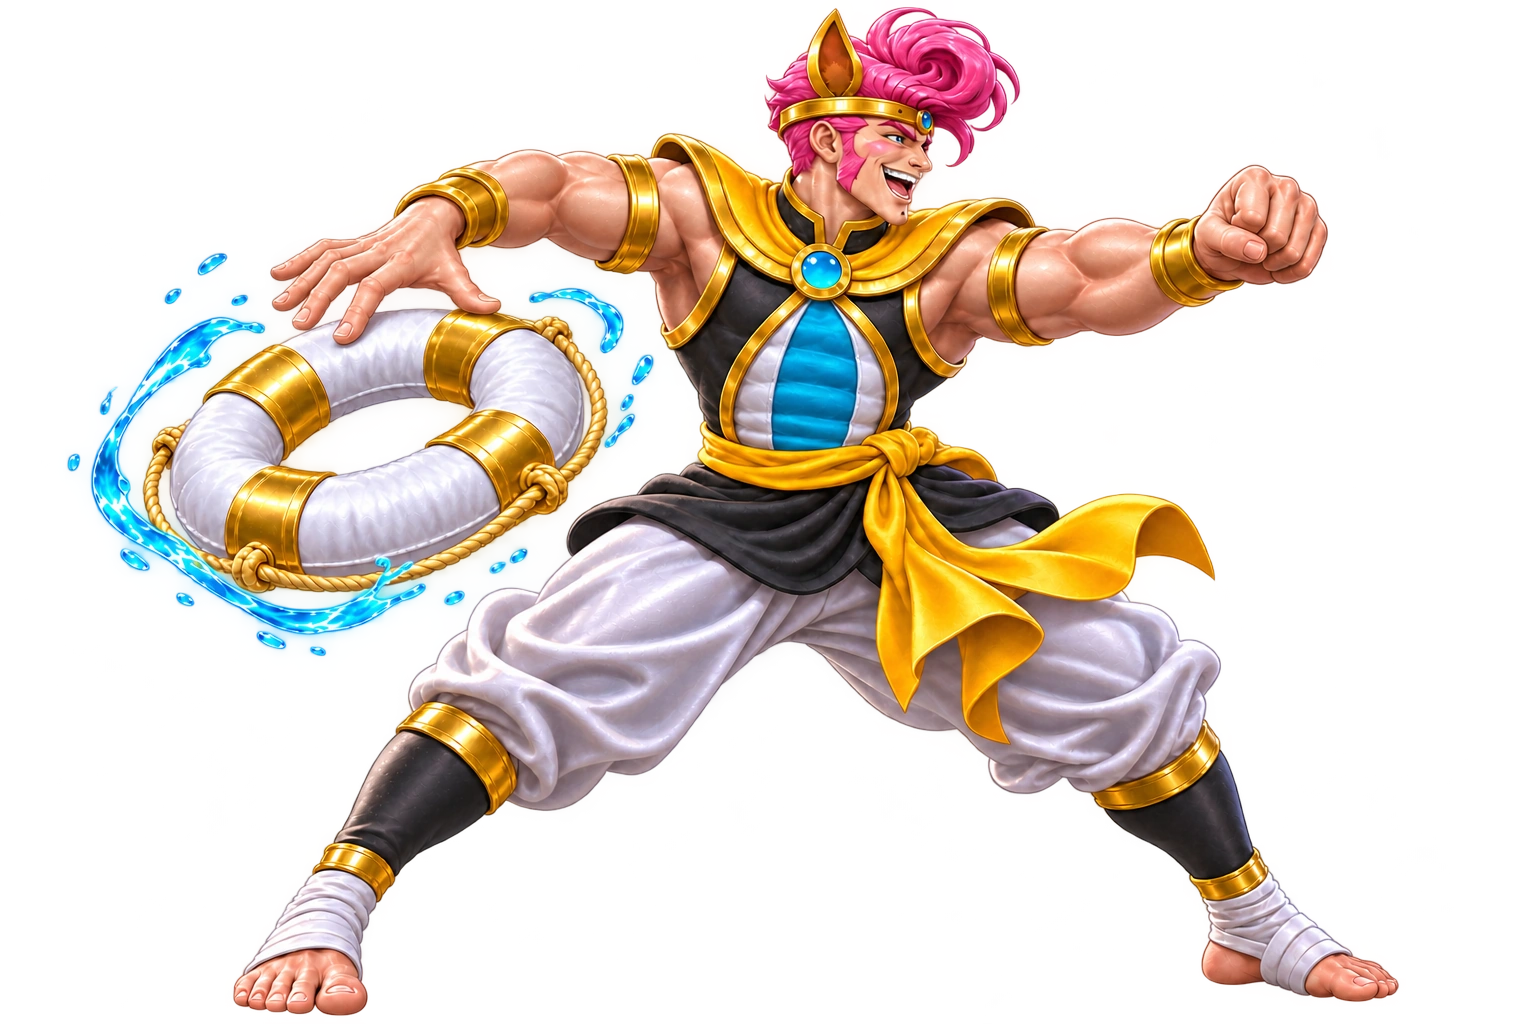
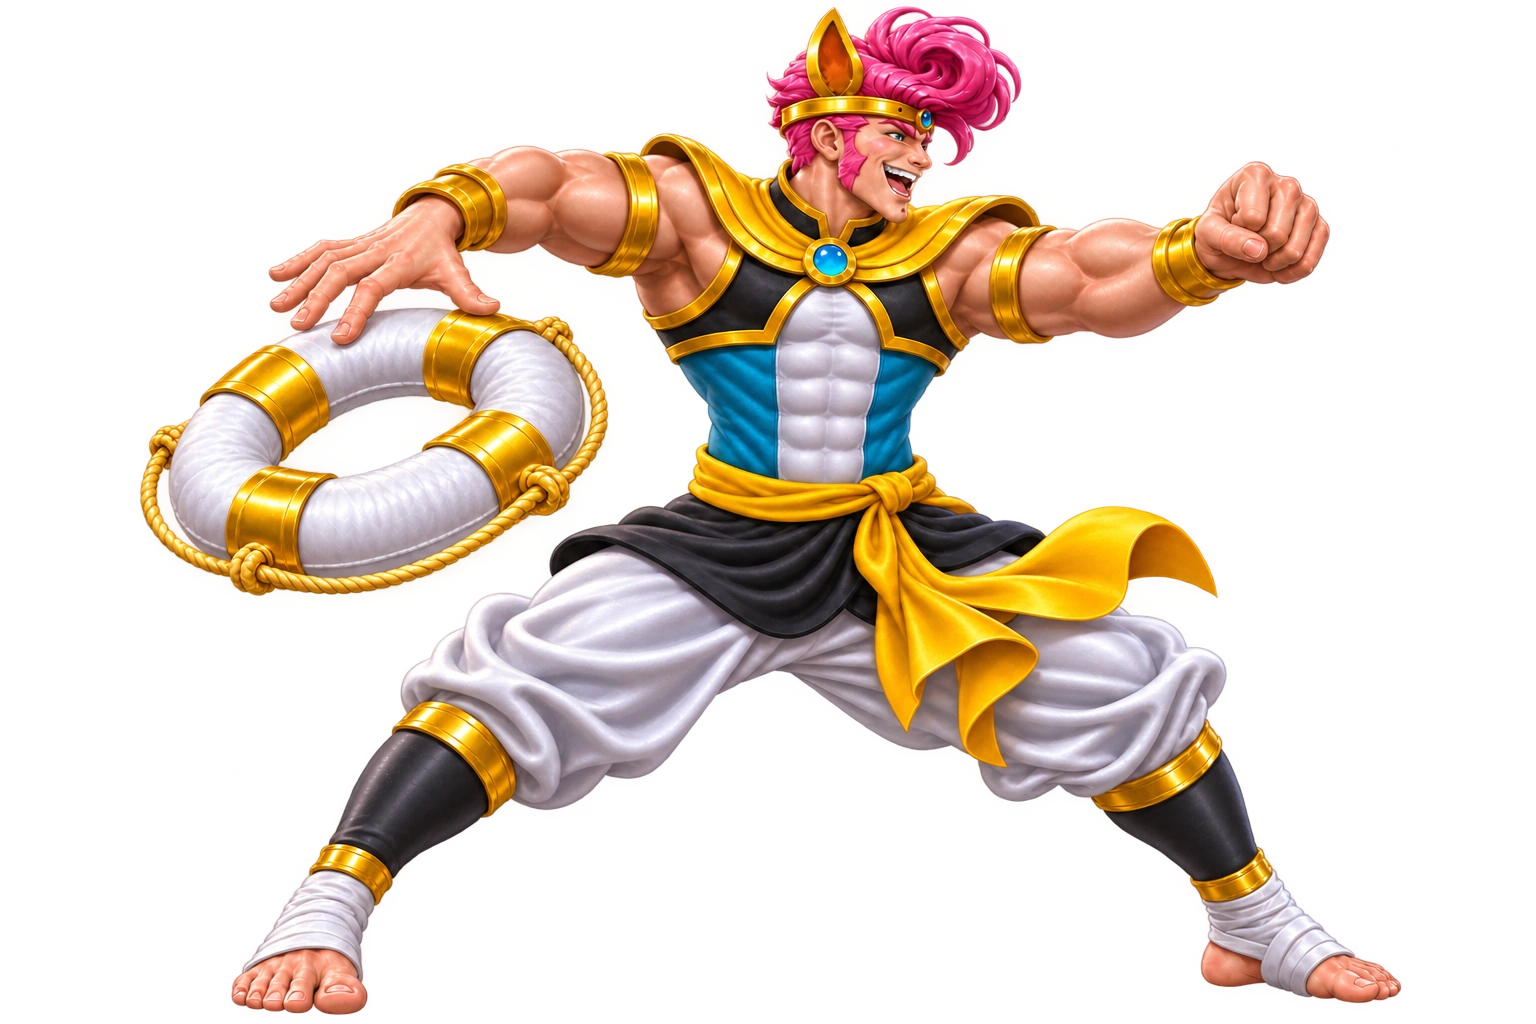
Refine Zodiac Chase and Coyote stances

Changed region(s): [[0.0312, 0.0, 0.875, 1.0], [0.75, 0.8125, 0.9062, 1.0], [0.7188, 0.3125, 0.75, 0.3438]]

diff --git a/game.js b/game.js
@@ -3525,7 +3525,7 @@ function setVersusCharacterImage(elementId, card) {
   const assetId = characterArtAliases[card.id] || card.id;
   const frame = versusStanceFrames.get(assetId);
   const fallback = resultCharacterPath(card, 'victory');
-  const url = frame ? `assets/versus-characters/${assetId}.webp?v=${poseArtVersion(assetId, 'stances-v5')}` : fallback;
+  const url = frame ? `assets/versus-characters/${assetId}.webp?v=${poseArtVersion(assetId, 'stances-v6')}` : fallback;
   if (image.dataset.versusArt !== url) {
     image.dataset.versusArt = url;
     if (frame) {
